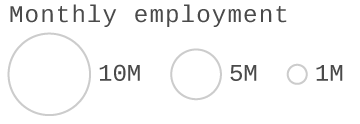
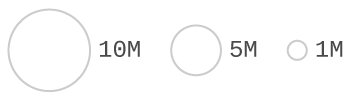
key and nav placement

diff --git a/src/sass/main.scss b/src/sass/main.scss
@@ -6,22 +6,23 @@
 @import '_key';
 @import '_native-select';
 
-// div, g {
+// div {
 // 	outline: 1px solid tomato;
 // }
+
+
 
 svg.test {
 	display: none;
 }
 
-// .interface-bar {
-// 	position: absolute;
-// 	top: 15px;
-// 	right: 15px;
-// 	background-color: #fff;
-// 	padding: 10px;
-// 	z-index: 100;
-// }
+.interface-bar {
+	float: left;
+}
+
+.search-container {
+	float: right;
+}
 
 $active-opacity : .8;
 $inactive-opacity: .05;
@@ -55,9 +56,6 @@ $inactive-opacity: .05;
     display: inline-block;
     margin: 0 auto;
 }
-
-
-
 
 .chart-hed {
     position: relative;
@@ -111,6 +109,7 @@ h2 {
 		transition: opacity .1s ease-in-out;
 	    -moz-transition: opacity .1s ease-in-out;
 	    -webkit-transition: opacity .1s ease-in-out;
+	    cursor: pointer;
 
 		&.inactive {
 			fill-opacity: $inactive-opacity;
@@ -126,6 +125,7 @@ h2 {
 
 		&.active, &:hover {
 			stroke-opacity: 1;
+			stroke-width: 2;
 			stroke: #333;
 		}
 
@@ -289,7 +289,7 @@ h2 {
 @media(max-width: 621px) {
 
     #slider {
-    	width: 60%;
+    	width: 50%;
     }
 
     .dot.inactive {
@@ -299,7 +299,23 @@ h2 {
 }
 
 
+@media(max-width: 510px) {
+	.interface-bar {
+		display: inline-block;
+		float: none;
+	}
 
+	.search-container {
+		display: inline-block;
+		float: none;
+	}
+
+
+	.key-item {
+		margin: 0px 8px;
+	}
+	
+}
 
 
 

diff --git a/src/sass/_key.scss b/src/sass/_key.scss
@@ -2,13 +2,11 @@
 @import 'feta';
 
 
-.key {
+.key-item {
 
-	// position: absolute;
-	// top: 10px;
-	// z-index: 3;
-	// //background-color: rgba(255, 255, 255, .9);
-	// padding-top: 4px;
+	display: inline-block;
+	vertical-align: middle;
+	margin: 15px 8px;
 
 	p {
 		font-family: $mono;
@@ -17,6 +15,16 @@
 		margin-bottom: 4px;
 		background-color: #fff;
 	}
+}
+
+.key {
+
+	// position: absolute;
+	// top: 10px;
+	// z-index: 3;
+	// //background-color: rgba(255, 255, 255, .9);
+	// padding-top: 4px;
+
 	
 	svg {
 		width: 241px;

diff --git a/src/js/scatterplot.js b/src/js/scatterplot.js
@@ -211,9 +211,9 @@ class scatterplot {
 
         
 
-        this.pKeyDiv = d3.select(".projection-key")
-            .style("left", `${(this.width/2) - 120}px`)
-            .style("right", `${(this.width/2) - 120}px`)
+        this.pKeyDiv = d3.select(".projection-key");
+            // .style("left", `${(this.width/2) - 120}px`)
+            // .style("right", `${(this.width/2) - 120}px`)
 
         this.pKeyDiv.select("svg").html("");
 

diff --git a/src/sass/_slider.scss b/src/sass/_slider.scss
@@ -26,7 +26,7 @@
   font-family: $mono;
   text-align: center;
   max-width: 400px;
-  margin: 15px auto;
+  margin: 8px auto;
   position: relative;
   z-index: 3;
 
